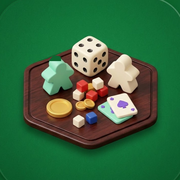
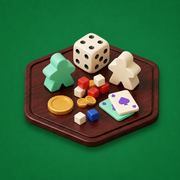
앱 아이콘 교체: 초록 배경 육각 보드 이미지

diff --git a/index.html b/index.html
@@ -449,7 +449,7 @@
 <body>
 <div id="app">
   <div class="appbar">
-    <h1><span class="dice">🎲</span> 보드게임 Hub <span id="build-tag" style="font-size:10px;font-weight:500;color:var(--text-sub);vertical-align:middle;">v1959</span></h1>
+    <h1><span class="dice">🎲</span> 보드게임 Hub <span id="build-tag" style="font-size:10px;font-weight:500;color:var(--text-sub);vertical-align:middle;">v2022</span></h1>
     <div style="display:flex;align-items:center;gap:10px;">
       <button id="admin-btn" onclick="openAdminPage()" title="관리자 페이지"
               style="display:none;background:#fff3e0;color:#c77700;border-radius:999px;padding:5px 10px;font-size:12px;font-weight:700;cursor:pointer;white-space:nowrap;">🛠</button>
@@ -2779,7 +2779,7 @@ async function adminSavePin(btn) {
 // ============================================================
 //  초기화
 // ============================================================
-const APP_VERSION = 'v1959 앱 아이콘 교체(초록 보드, 코너선 제거)';
+const APP_VERSION = 'v2022 앱 아이콘 교체(초록 보드)';
 function init() {
   console.log('BoardGameHub build:', APP_VERSION);
   const saved = localStorage.getItem('bg_user');

diff --git a/sw.js b/sw.js
@@ -1,6 +1,6 @@
 // 보드게임 Hub — 서비스워커 (PWA 설치 + 앱 셸 오프라인 대비)
 // 캐시 버전만 올리면 갱신됩니다.
-const CACHE = 'bgh-v6';
+const CACHE = 'bgh-v7';
 const SHELL = [
   './',
   './index.html',
